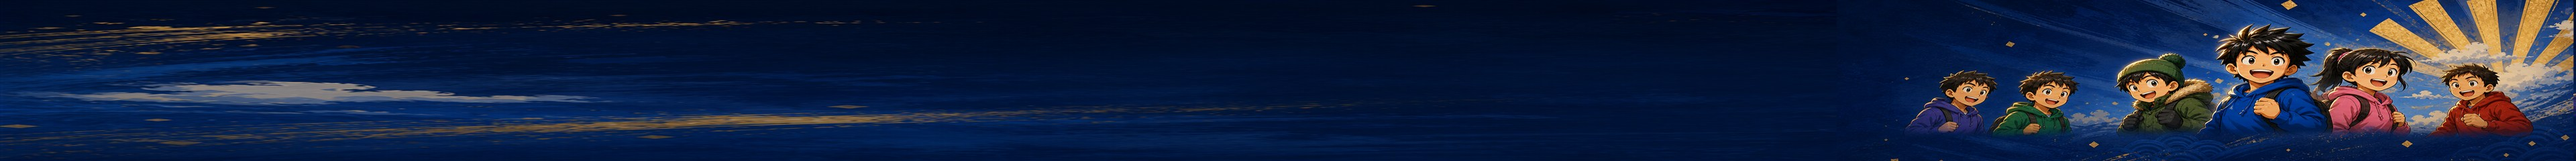
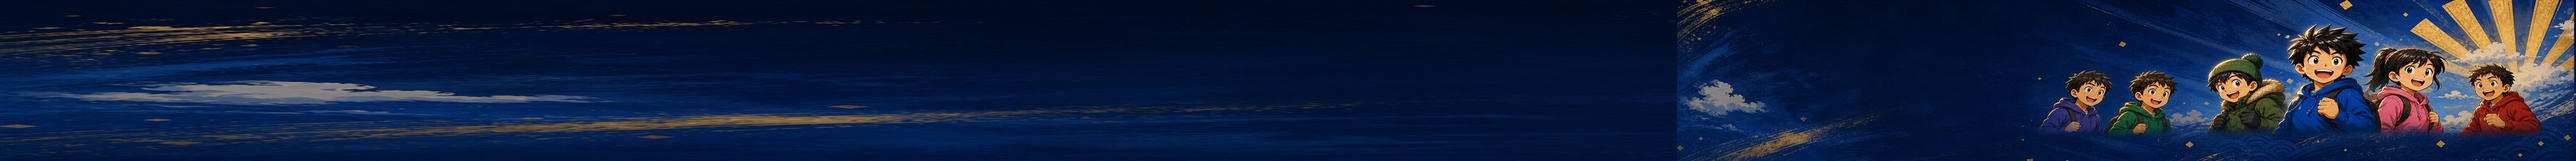
Make header artwork responsive

Changed region(s): [[0.625, 0.0, 1.0, 1.0], [0.75, 0.0, 0.7812, 0.0875]]

diff --git a/styles.css b/styles.css
@@ -100,3 +100,10 @@
   text-align:center;
   text-decoration:none;
 }
+
+/* Responsive full-width title artwork. The source is a shallow 16:1 banner,
+   so it scales with the header without cropping the character ensemble. */
+header{
+  background-position:center,center;
+  background-size:cover,100% 100%;
+}
